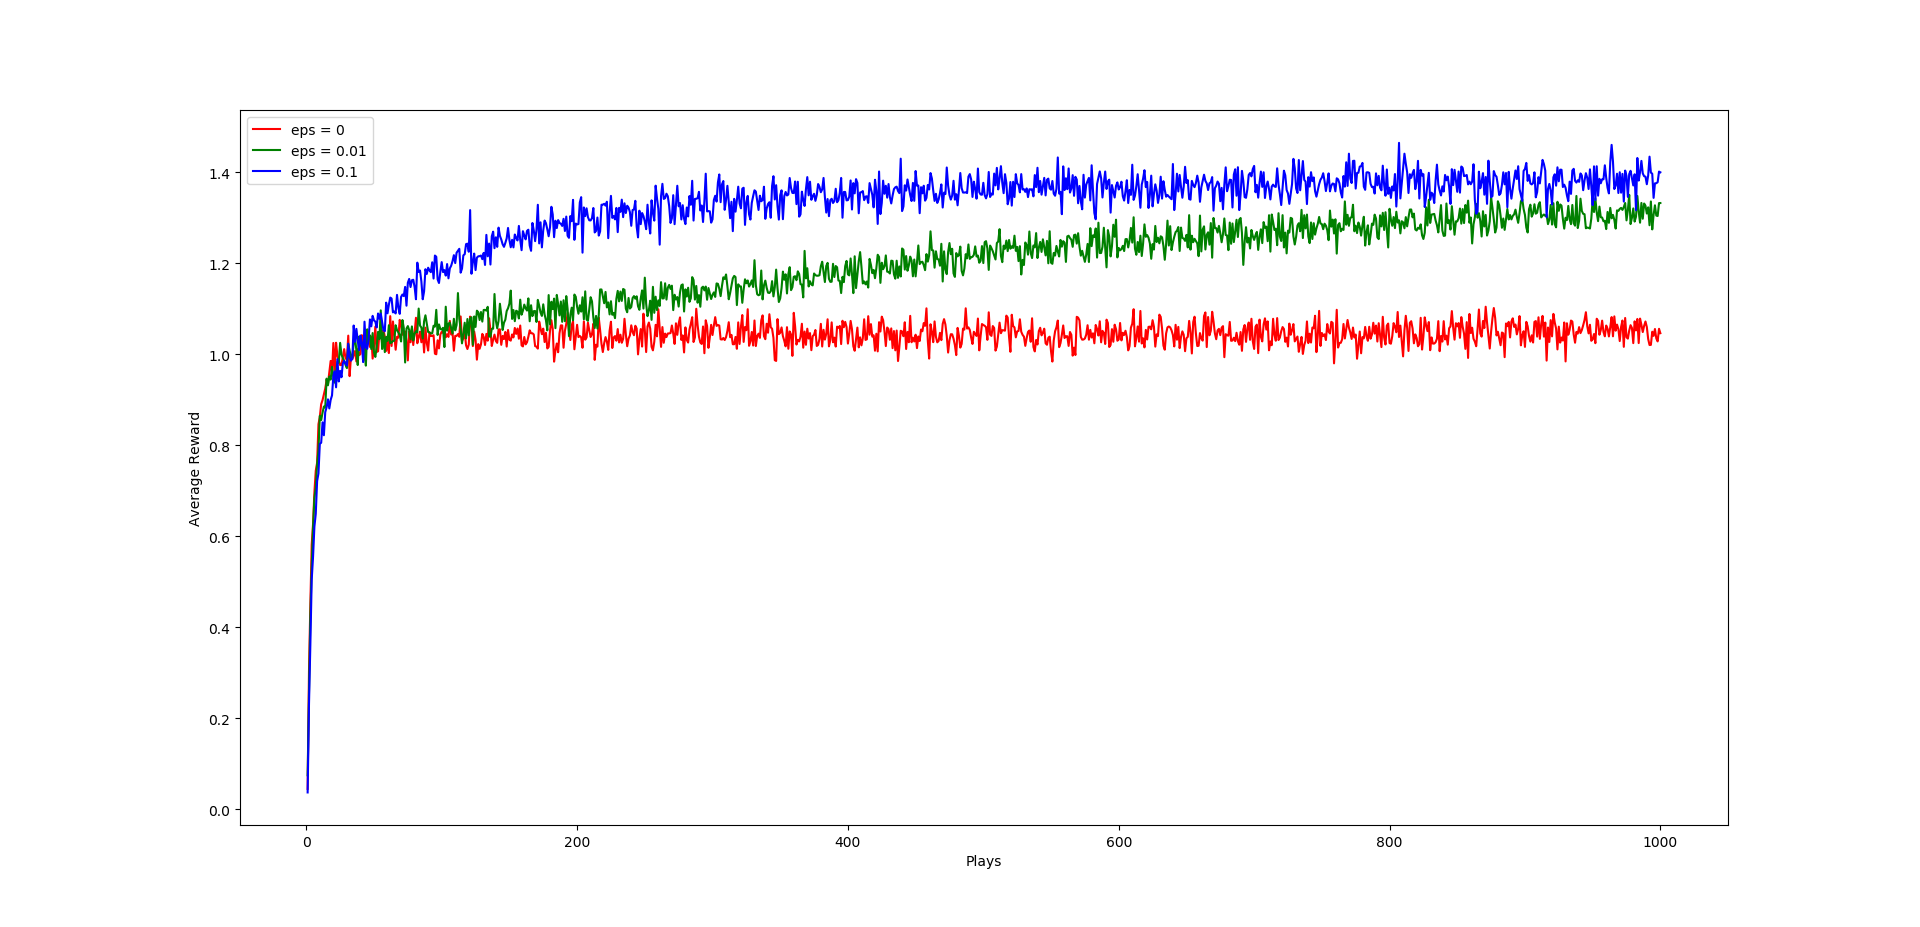
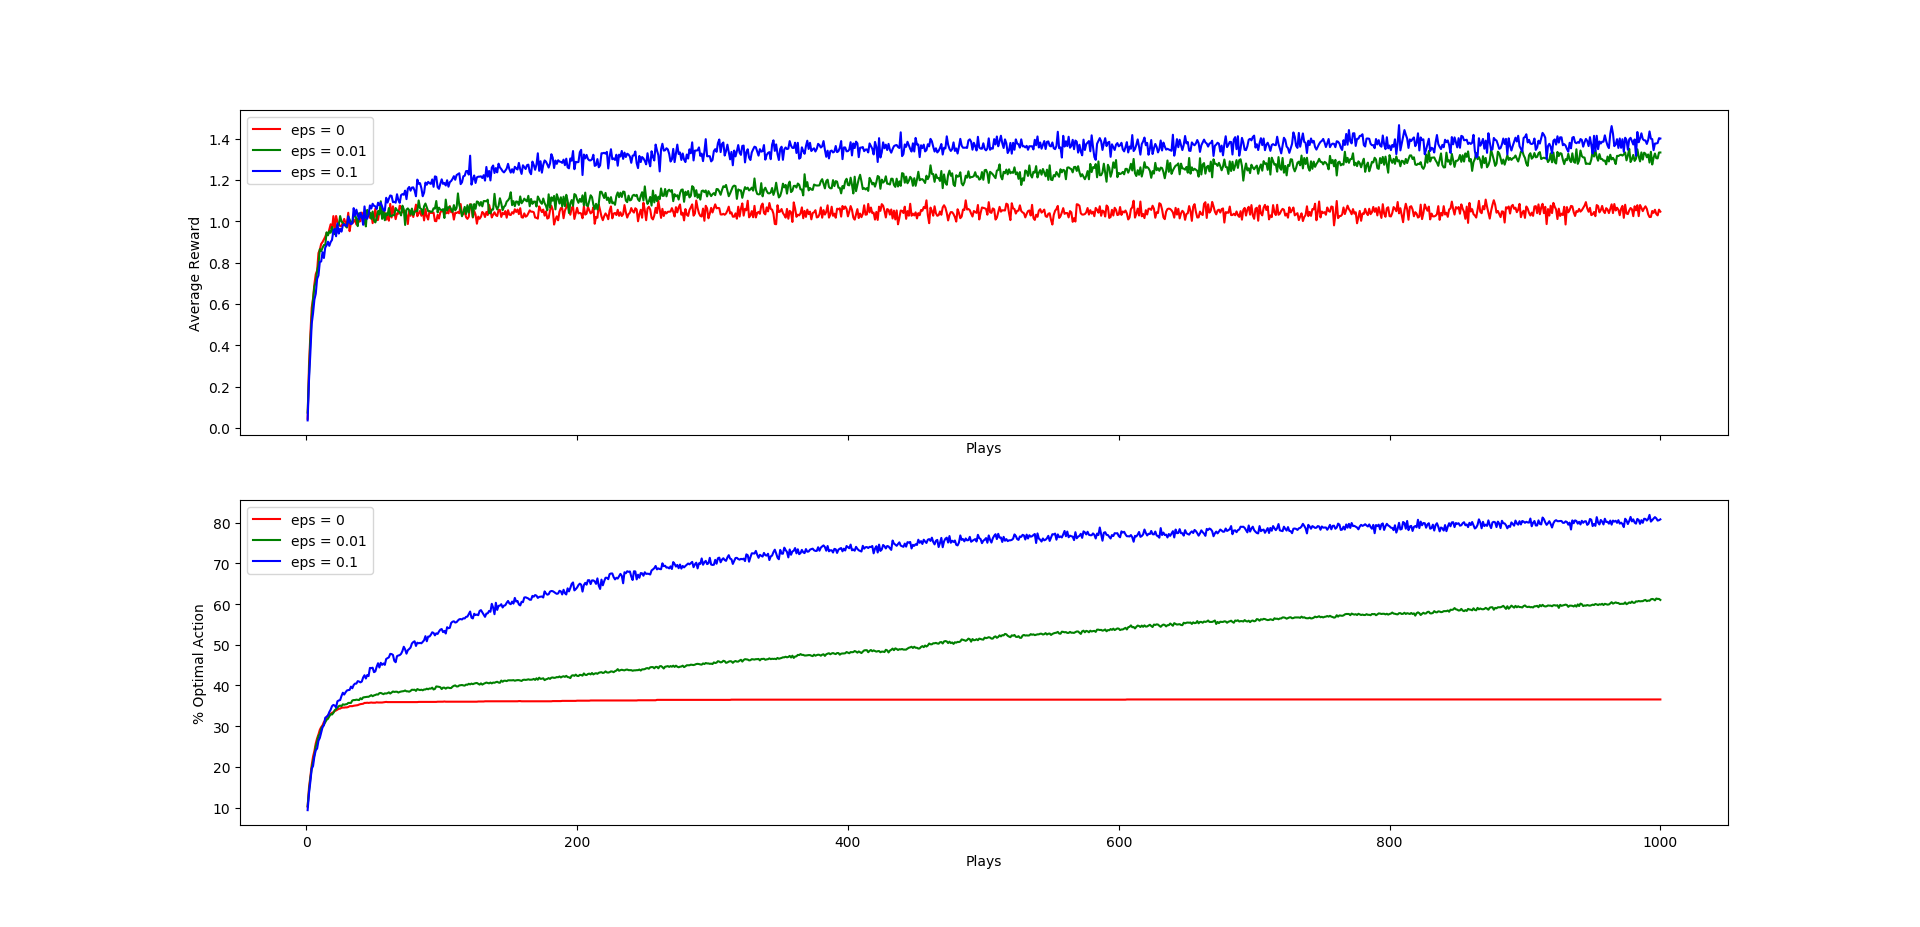
Fixed Optimal Action plot

diff --git a/n_armed_bandit.py b/n_armed_bandit.py
@@ -24,12 +24,12 @@ for i in range(len(eps)):
             if np.random.uniform() < eps[i]:
                 a = np.random.randint(0, n)
             else:
-                a = q.index(max(q))
-            r = [np.random.normal(q_star[ai], 1) for ai in range(n)]
-            q[a] += (r[a] - q[a])/(k[a] + 1)
+                a = np.argmax(q)
+            r = np.random.normal(q_star[a], 1)
+            q[a] += (r - q[a])/(k[a] + 1)
             k[a] += 1
-            r_means[p] += r[a]
-            if r[a] == max(r):
+            r_means[p] += r
+            if a == np.argmax(q_star):
                 optimals[p] += 1
     optimals = [100*x/tasks_num for x in optimals]
     r_means = [x/tasks_num for x in r_means]
